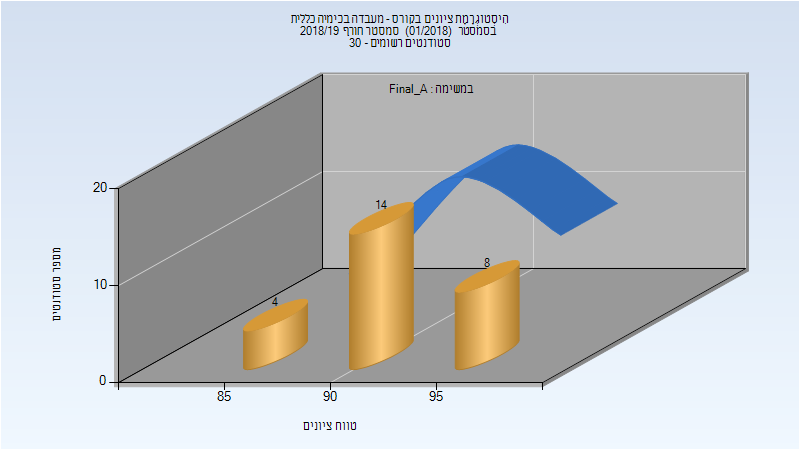
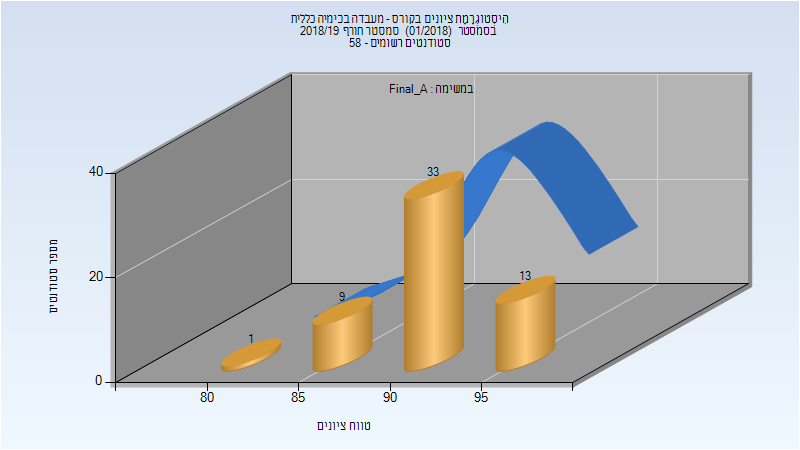
Deploy michael-maltsev/technion-histograms to github.com/michael-maltsev/technion-histograms.git:gh-pages

diff --git a/125013/index.html b/125013/index.html
@@ -783,20 +783,32 @@
 </thead>
 <tbody>
 <tr>
-<td>הלוי גבריאלה</td>
-<td>מרצה - אחראי מקצוע</td>
-</tr>
-<tr>
-<td>פרשל מאיה</td>
-<td>מרצה</td>
-</tr>
-<tr>
-<td>גולובצקי אנסטסיה</td>
-<td>מרצה</td>
-</tr>
-<tr>
 <td>שמידט אשר</td>
-<td>מרצה</td>
+<td>מדריך מעבדה - עם הרשאות מרצה אחראי</td>
+</tr>
+<tr>
+<td>עמירב דרורי לילך</td>
+<td></td>
+</tr>
+<tr>
+<td>דה-רויטר גרהם</td>
+<td></td>
+</tr>
+<tr>
+<td>לוינמן מריה</td>
+<td>מדריך מעבדה</td>
+</tr>
+<tr>
+<td>אטרש מוחמד</td>
+<td>מדריך מעבדה</td>
+</tr>
+<tr>
+<td>זלנר-יפע משה מיכאל</td>
+<td>מדריך מעבדה</td>
+</tr>
+<tr>
+<td>הלוי גבריאלה</td>
+<td>סגל מנהלי - עם הרשאות מרצה אחראי</td>
 </tr>
 </tbody>
 </table>
@@ -816,12 +828,12 @@
 </thead>
 <tbody>
 <tr>
-<td>26</td>
-<td>26/0</td>
+<td>56</td>
+<td>56/0</td>
 <td>100</td>
-<td>85</td>
+<td>84</td>
 <td>98</td>
-<td>92.769</td>
+<td>92.161</td>
 <td>93</td>
 </tr>
 </tbody>
@@ -842,12 +854,12 @@
 </thead>
 <tbody>
 <tr>
-<td>28</td>
-<td>28/0</td>
+<td>56</td>
+<td>56/0</td>
 <td>100</td>
-<td>85</td>
+<td>84</td>
 <td>98</td>
-<td>92.893</td>
+<td>92.161</td>
 <td>93</td>
 </tr>
 </tbody>

diff --git a/125013/README.md b/125013/README.md
@@ -231,10 +231,13 @@
 
 | איש סגל | תפקיד |
 | ---- | ---- |
-| הלוי גבריאלה | מרצה - אחראי מקצוע |
-| פרשל מאיה | מרצה |
-| גולובצקי אנסטסיה | מרצה |
-| שמידט אשר | מרצה |
+| שמידט אשר | מדריך מעבדה - עם הרשאות מרצה אחראי |
+| עמירב דרורי לילך |  |
+| דה-רויטר גרהם |  |
+| לוינמן מריה | מדריך מעבדה |
+| אטרש מוחמד | מדריך מעבדה |
+| זלנר-יפע משה מיכאל | מדריך מעבדה |
+| הלוי גבריאלה | סגל מנהלי - עם הרשאות מרצה אחראי |
 
 ### סופי מועד א'
 
@@ -242,7 +245,7 @@
 
 | סטודנטים | עברו/נכשלו | אחוז עוברים | ציון מינימלי | ציון מקסימלי | ממוצע | חציון |
 | ---- | ---- | ---- | ---- | ---- | ---- | ---- |
-| 26 | 26/0 | 100 | 85 | 98 | 92.769 | 93 |
+| 56 | 56/0 | 100 | 84 | 98 | 92.161 | 93 |
 
 ### סופי
 
@@ -250,7 +253,7 @@
 
 | סטודנטים | עברו/נכשלו | אחוז עוברים | ציון מינימלי | ציון מקסימלי | ממוצע | חציון |
 | ---- | ---- | ---- | ---- | ---- | ---- | ---- |
-| 28 | 28/0 | 100 | 85 | 98 | 92.893 | 93 |
+| 56 | 56/0 | 100 | 84 | 98 | 92.161 | 93 |
 
 ## אביב 2019
 
